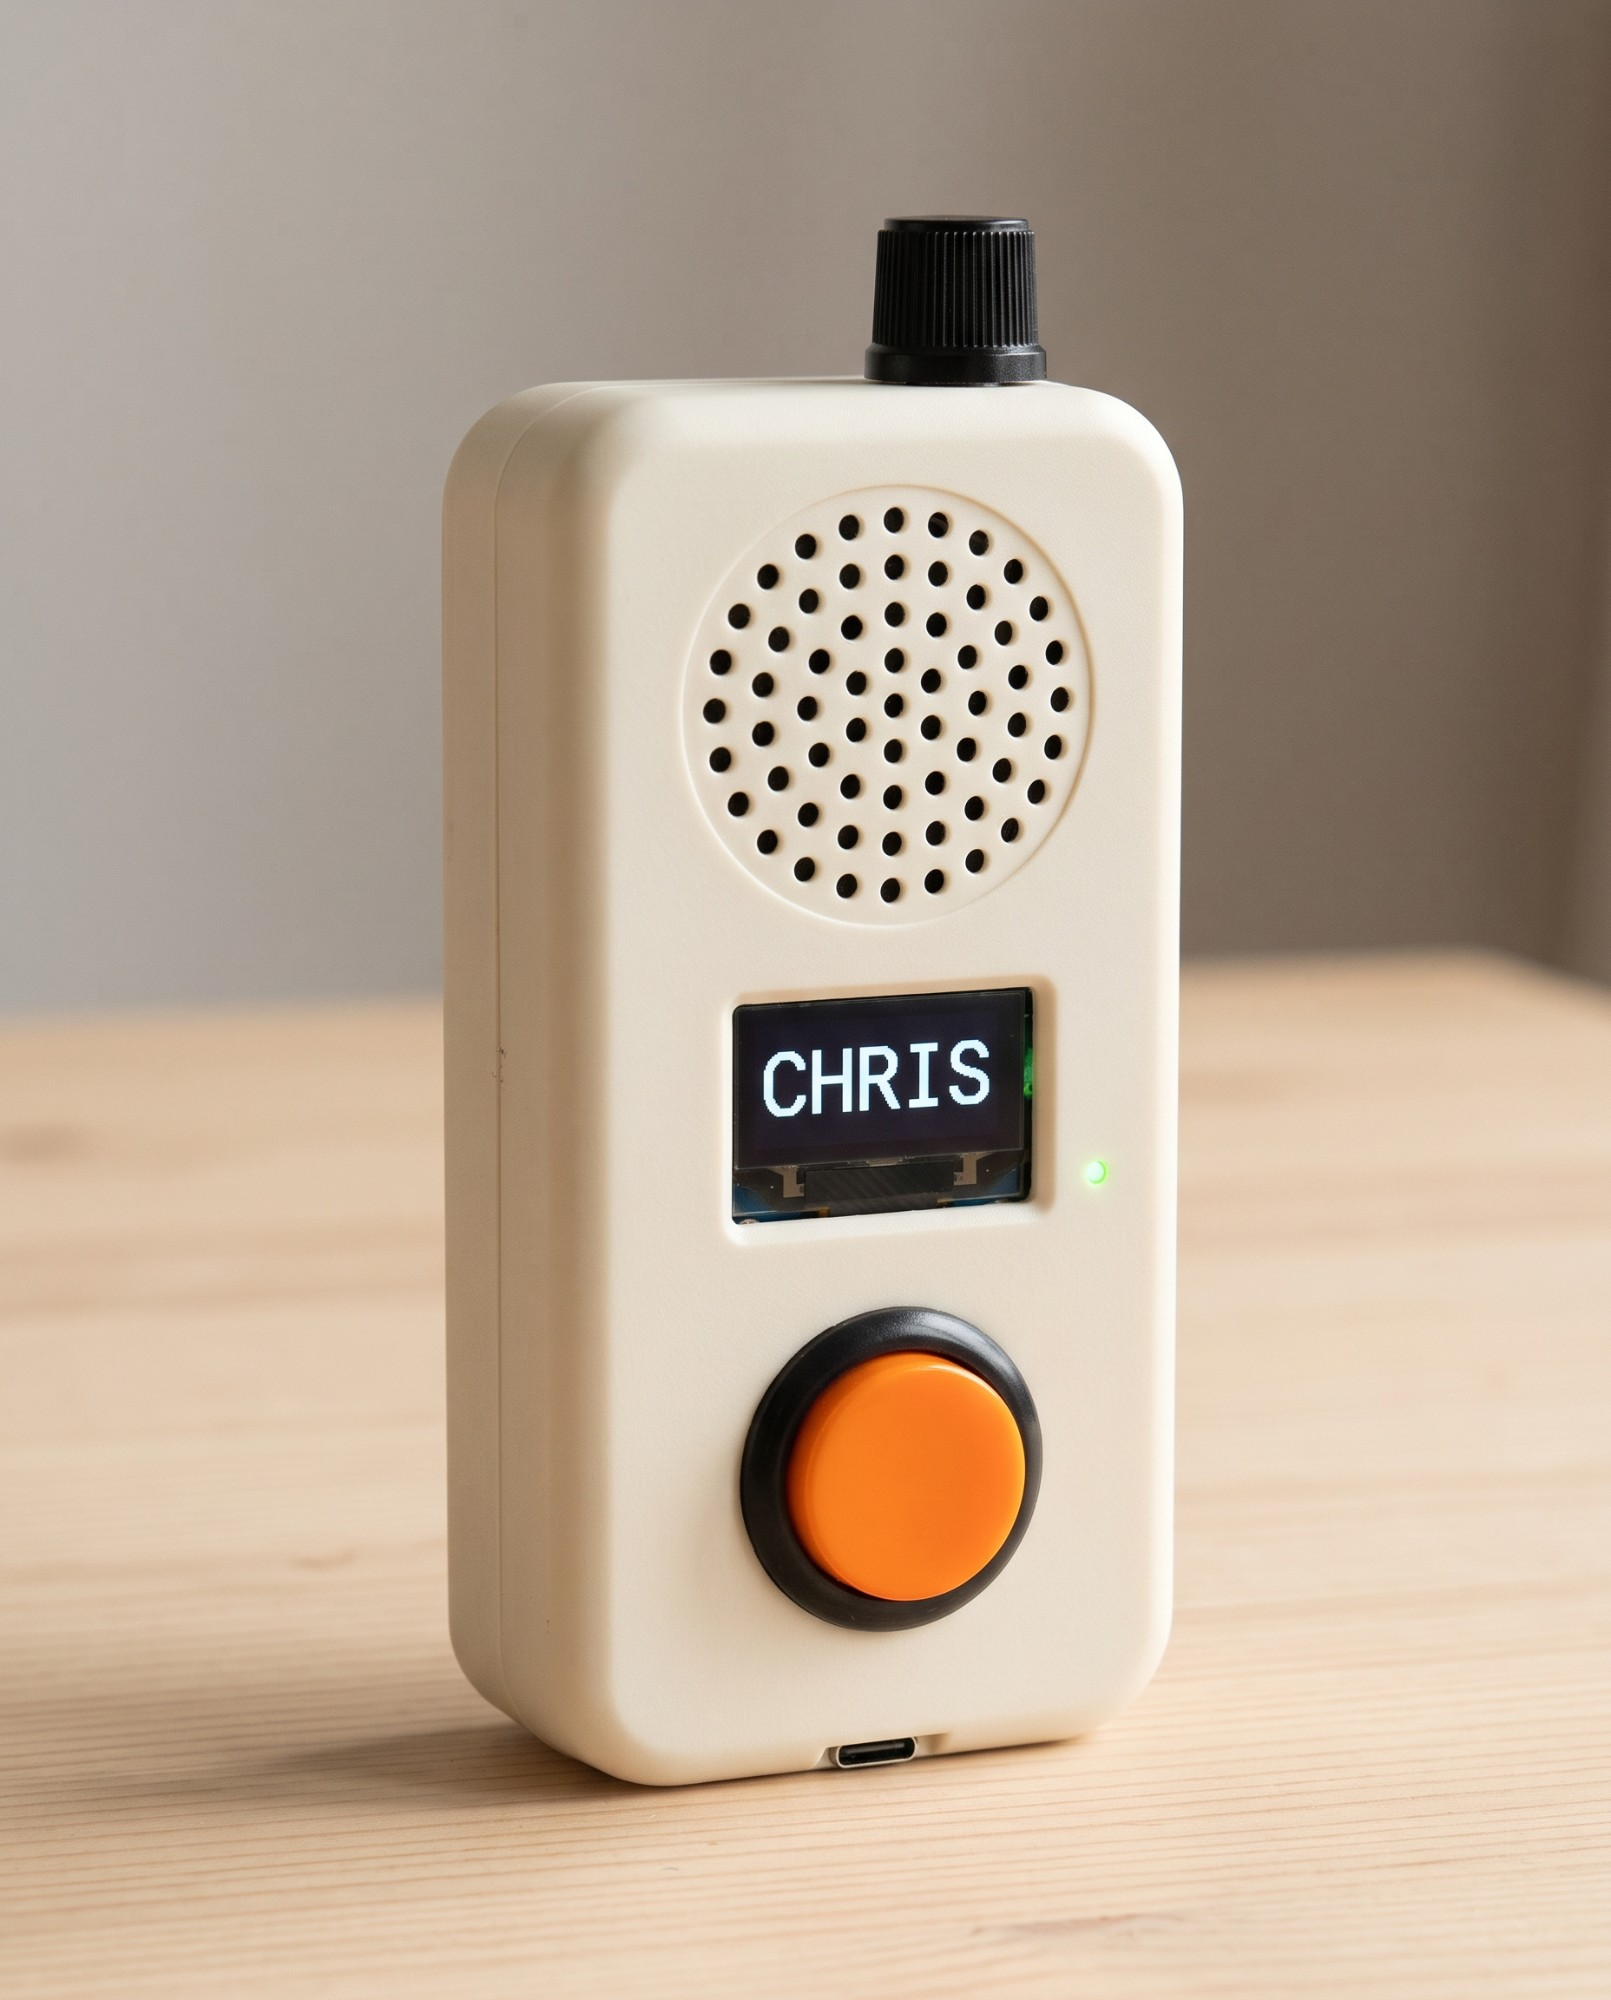
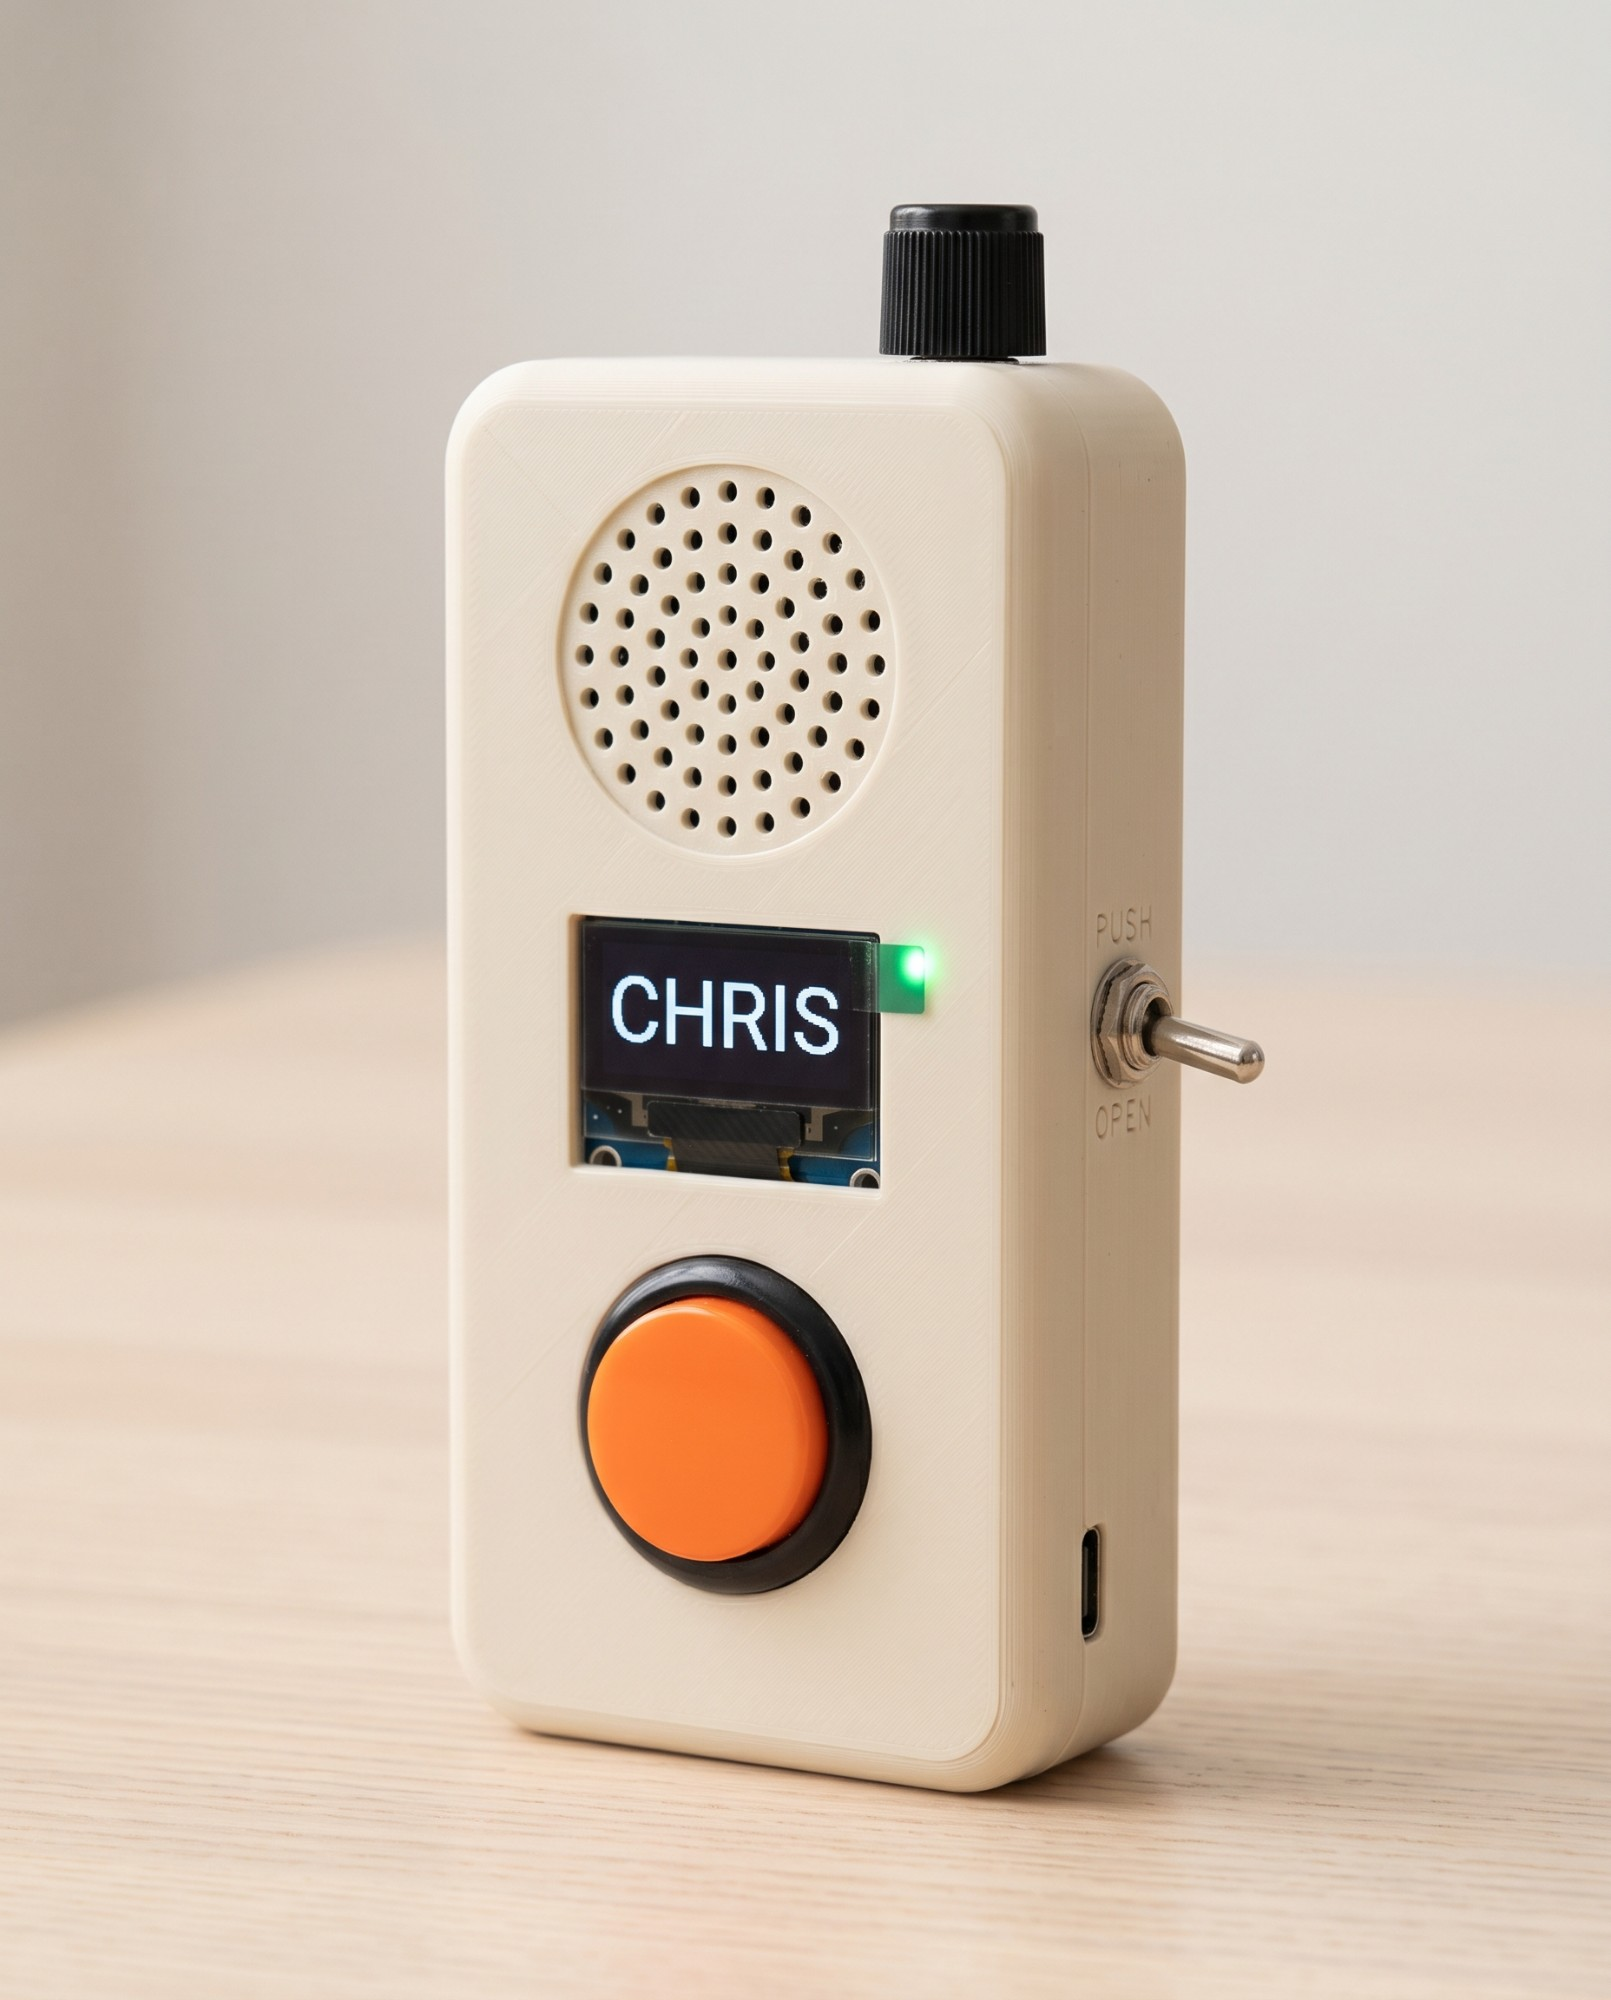
Replace concept images with versions that show the PUSH / OPEN switch
- New bedside radio, classic handheld, pocket pebble (front and back) and
  parts layout images, with web-sized _sml versions
- Parts list on the site now points at the new 13-part layout, including
  the toggle switch
- Social preview regenerated from the new bedside radio image

Claude-Session: https://claude.ai/code/session_01LrNCnegJ2kkywH2Q5iJBTV

diff --git a/index.html b/index.html
@@ -312,7 +312,7 @@ footer ul { list-style: none; padding: 0; display: flex; flex-wrap: wrap; gap: 8
     </div>
   </div>
   <figure style="margin:0">
-    <div class="frame"><img src="images/bedside-radio_sml.jpg" alt="A sage green radio on a bedside table, with a big orange button on top, a speaker grille, a small screen reading CHRIS and a black knob" width="805" height="1000"></div>
+    <div class="frame"><img src="images/bedside-radio_sml.jpg" alt="A sage green radio on a bedside table, with a big orange button on top, a speaker grille, a small screen reading CHRIS, a black knob and a PUSH / OPEN toggle switch" width="805" height="1000"></div>
     <figcaption class="fig"><b>Fig. 1</b> The bedside radio. A concept picture: the first one is still being designed.</figcaption>
   </figure>
 </div>
@@ -451,15 +451,15 @@ footer ul { list-style: none; padding: 0; display: flex; flex-wrap: wrap; gap: 8
     </div>
     <div class="shapes">
       <figure class="shape">
-        <div class="pic"><img src="images/bedside-radio_sml.jpg" alt="Sage green tabletop radio with orange button on top, grille, screen and knob" loading="lazy" width="805" height="1000"><span class="tag pick" style="background:var(--accent);color:var(--accent-ink);border:0">Our pick for Grandad</span></div>
+        <div class="pic"><img src="images/bedside-radio_sml.jpg" alt="Sage green tabletop radio with orange button on top, grille, screen, knob and toggle switch" loading="lazy" width="805" height="1000"><span class="tag pick" style="background:var(--accent);color:var(--accent-ink);border:0">Our pick for Grandad</span></div>
         <figcaption><h3>Bedside radio</h3><p>Sits on its stand by the chair, always charged. The button is on top, right where a hand lands.</p><div class="sw">Switch: on the front, below the grille.</div></figcaption>
       </figure>
       <figure class="shape">
-        <div class="pic"><img src="images/classic-handheld_sml.jpg" alt="Cream handheld walkie-talkie with grille, screen, big orange button and knob on top" loading="lazy" width="805" height="1000"></div>
+        <div class="pic"><img src="images/classic-handheld_sml.jpg" alt="Cream handheld walkie-talkie with grille, screen, big orange button, a knob on top and a toggle switch on the side" loading="lazy" width="805" height="1000"></div>
         <figcaption><h3>Classic handheld</h3><p>The walkie-talkie shape everyone already knows. Good for carrying round the house or garden.</p><div class="sw">Switch: on the side, under the thumb.</div></figcaption>
       </figure>
       <figure class="shape">
-        <div class="pic flips"><div class="flipper" id="pebble"><img src="images/pocket-pebble-front_sml.jpg" alt="Navy pebble-shaped radio in a hand, front view" loading="lazy" width="805" height="1000"><img class="back" src="images/pocket-pebble-back_sml.jpg" alt="Back of the pebble radio, showing the belt clip and lanyard loop" loading="lazy" width="805" height="1000" aria-hidden="true"></div><button class="flip" type="button" id="flip">Show back</button></div>
+        <div class="pic flips"><div class="flipper" id="pebble"><img src="images/pocket-pebble-front_sml.jpg" alt="Navy pebble-shaped radio in a hand, front view, with a slide switch on the edge" loading="lazy" width="805" height="1000"><img class="back" src="images/pocket-pebble-back_sml.jpg" alt="Back of the pebble radio, showing the belt clip and lanyard loop" loading="lazy" width="805" height="1000" aria-hidden="true"></div><button class="flip" type="button" id="flip">Show back</button></div>
         <figcaption><h3>Pocket pebble</h3><p>Small enough for a pocket. A sprung clip on the back grips a belt or a shirt pocket, and there's a loop for a lanyard. The knob is a ring around the button.</p><div class="sw">Switch: a small slider on the edge. Harder to see, so OPEN suits it least.</div></figcaption>
       </figure>
     </div>
@@ -477,10 +477,10 @@ footer ul { list-style: none; padding: 0; display: flex; flex-wrap: wrap; gap: 8
     <div class="inside">
       <div>
         <div class="photo" id="photo">
-          <img src="images/parts-layout_sml.jpg" alt="Twelve numbered parts laid out on a grey mat" loading="lazy" width="1000" height="558">
+          <img src="images/parts-layout_sml.jpg" alt="Thirteen numbered parts laid out on a grey mat, ending with a chrome toggle switch" loading="lazy" width="1000" height="558">
           <div class="ring" id="ring"></div>
         </div>
-        <p class="fig"><b>Fig. 2</b> The parts for one radio. A generated reference picture, not our actual kit.</p>
+        <p class="fig"><b>Fig. 2</b> The parts for one radio. A generated reference picture, not our actual kit. The orange button appears twice, side on and from above.</p>
       </div>
       <div>
         <table class="bom"><tbody id="bom"></tbody></table>
@@ -839,13 +839,13 @@ $("flip").addEventListener("click", e => {
 
 /* ---------- Parts ---------- */
 const PARTS = [
-  ["ESP32-S3 board", "about 10", 18.5, 21], ["Microphone", "2 to 4", 45, 20], ["Amplifier", "2 to 4", 58, 20],
-  ["Speaker, 3 W", "1.50", 82, 19], ["Big orange button", "2 to 4", 17, 51], ["Knob", "2 to 3", 40, 50],
-  ["Small screen", "about 2", 58.5, 51], ["Battery, 1000 mAh", "2 to 8", 81, 51], ["Charger board", "0.50", 17, 80],
-  ["Light and on/off switch", "under 1", 37, 81], ["Wire", "on hand", 58, 81], ["Case", "about 5", 82, 81],
-  ["PUSH / OPEN toggle switch (new, not pictured)", "2 to 5", null, null]
+  ["ESP32-S3 board", "about 10", 17.5, 22], ["Microphone", "2 to 4", 36, 22], ["Amplifier", "2 to 4", 50.5, 22.5],
+  ["Speaker, 3 W", "1.50", 69.5, 22], ["Big orange button", "2 to 4", 14, 50], ["Knob", "2 to 3", 34.5, 51],
+  ["Small screen", "about 2", 51, 51], ["Battery, 1000 mAh", "2 to 8", 69.5, 52], ["Charger board", "0.50", 88, 51],
+  ["Light and on/off switch", "under 1", 16, 80.5], ["Wire", "on hand", 34, 80], ["Case", "about 5", 63, 81.5],
+  ["PUSH / OPEN toggle switch", "2 to 5", 89, 82.5]
 ];
-$("bom").innerHTML = PARTS.map(([n, p, x], i) => `<tr data-i="${i}" class="${x === null ? "new" : ""}" tabindex="0"><td>${i + 1}</td><td>${n}</td><td>${p}</td></tr>`).join("");
+$("bom").innerHTML = PARTS.map(([n, p, x], i) => `<tr data-i="${i}" class="${i === 12 ? "new" : ""}" tabindex="0"><td>${i + 1}</td><td>${n}</td><td>${p}</td></tr>`).join("");
 const rows = [...$("bom").children], ring = $("ring");
 function mark(i) {
   rows.forEach((r, j) => r.classList.toggle("on", j === i));

diff --git a/Walkie-Talkie Image Prompts.md b/Walkie-Talkie Image Prompts.md
@@ -11,7 +11,7 @@ Paste one prompt at a time. Each is self-contained, so the generator needs no ot
 - **Labels.** Image generators often garble small text. Prompt 1 asks for numbered tags and gives the key below it, so a wrong label does not matter. If your generator handles text well, use the "with names" line instead.
 - **Consistency.** Every concept prompt repeats the same five features (big orange button, knob, small screen, speaker grille, PUSH / OPEN toggle switch), so the three results stay comparable.
 - **Aspect ratio.** 16:9 for the parts layout, 4:5 for the concepts. Change the last line of each prompt if your tool sets this elsewhere.
-- **The switch.** The PUSH / OPEN toggle was added after the first set of images was made, so the pictures in `images/` do not show it yet. Generators often garble the two small labels; the lever is what matters.
+- **The switch.** The PUSH / OPEN toggle was added after the first set of images was made; the pictures in `images/` were regenerated to include it. Generators often garble the two small labels; the lever is what matters.
 - **No antenna.** It works over Wi-Fi, so the prompts say so. Generators love adding one.
 
 ## Prompt 1: all parts laid out
